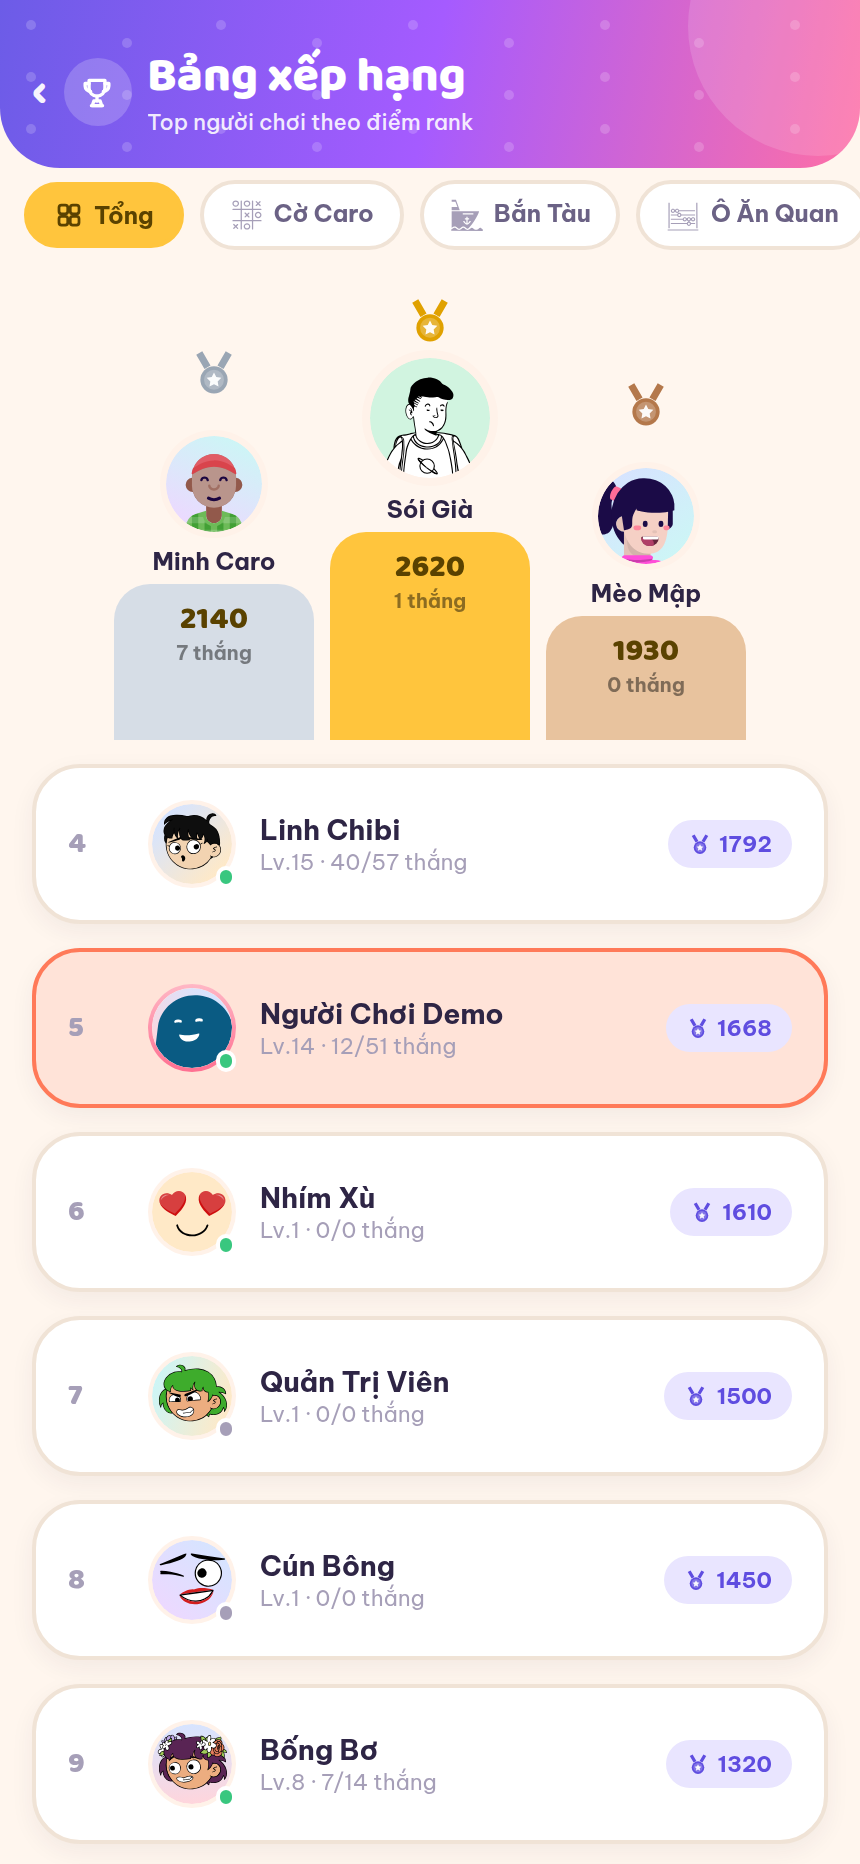
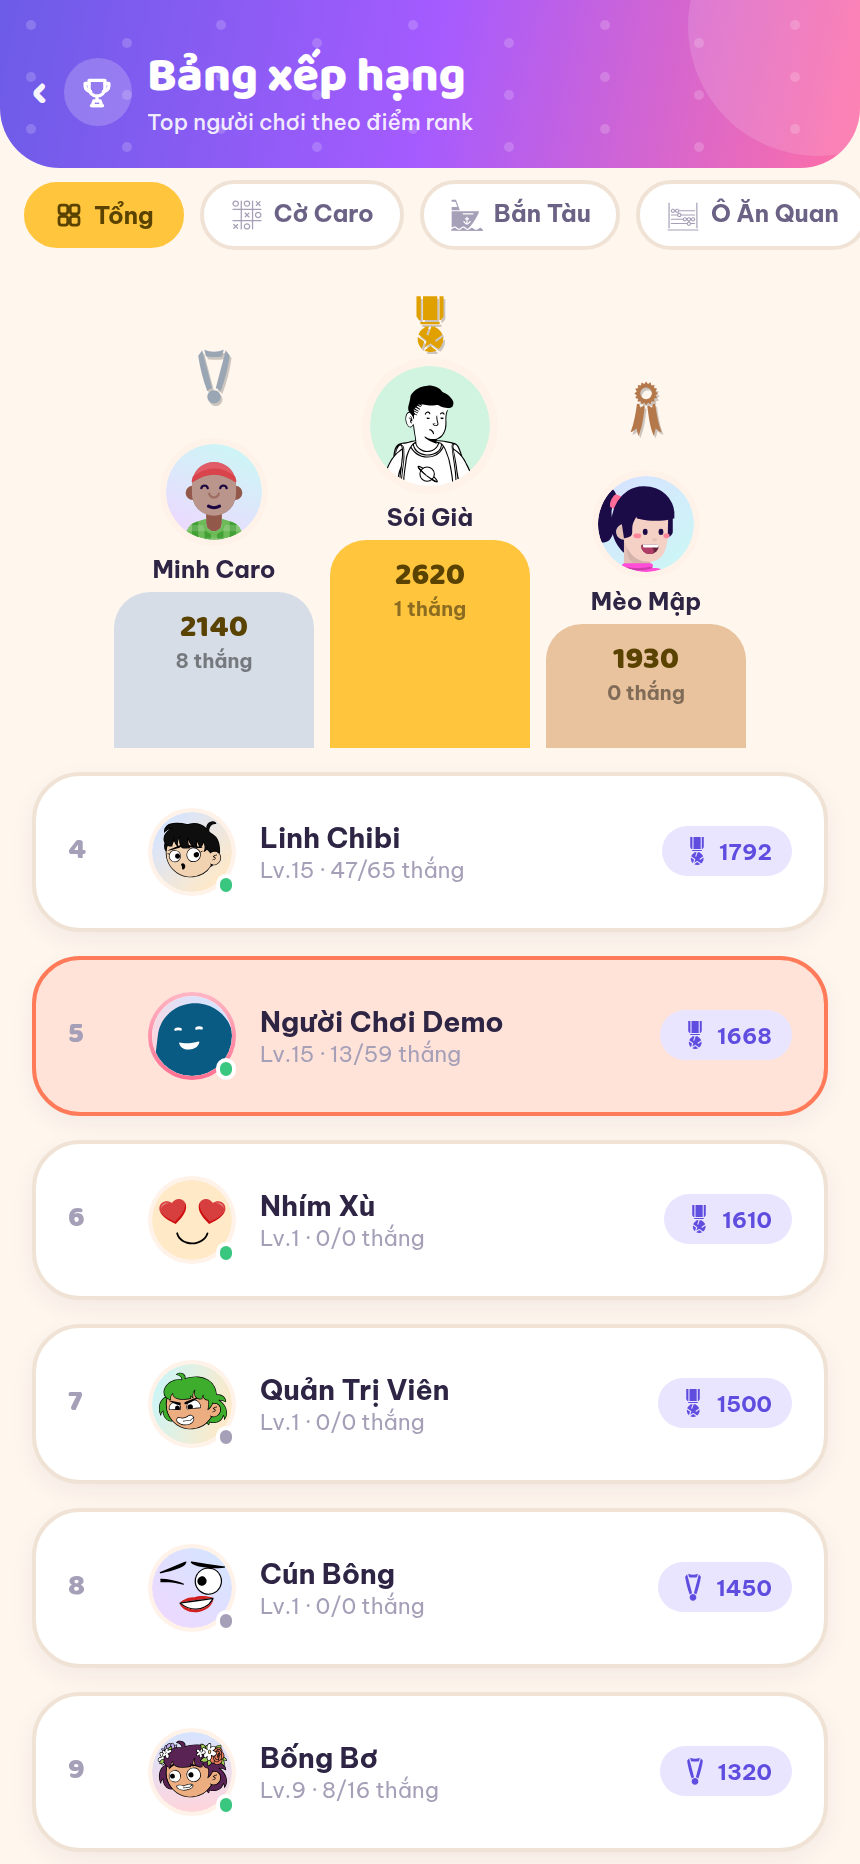
Cửa hàng, bảng xếp hạng và hạng đấu dùng asset; sửa lỗi xén viền hàng lọc
- Preview cosmetic dựng theo loại: khung có avatar mẫu bên trong, bàn cờ là lưới
  3x3, nền/bong bóng/emote/hiệu ứng dùng asset trên nền chuyển màu — trước đó
  chỉ là ô màu trơn nên không ra dáng vật phẩm.
- Chip nhận prop art; hạng đấu có huy chương đồng/bạc/vàng, đá quý, vương miện
  theo bậc (src/lib/rank.ts) thay vì cùng một icon nét.
- Bục xếp hạng và bảng kết quả trận dùng huy chương theo thứ hạng.
- Sửa lỗi hàng lọc cửa hàng bị xén mất viền trên dưới: ScrollView ngang của
  react-native-web cắt phần tràn dọc, nay bọc trong View có chiều cao cố định.

diff --git a/apps/mobile/app/shop.tsx b/apps/mobile/app/shop.tsx
@@ -6,6 +6,7 @@ import { useSafeAreaInsets } from 'react-native-safe-area-context';
 import { Btn, Card, Chip, CoinPill, Empty, SectionTitle, Txt } from '../src/components/ui';
 import { HeaderTabs, ScreenHeader } from '../src/components/ScreenHeader';
 import { Icon, IconName } from '../src/components/Icon';
+import { Art, ArtName } from '../src/components/Art';
 import { C, R, RARITY, S, softShadow } from '../src/theme';
 import { api, friendlyError } from '../src/lib/api';
 import { useStore } from '../src/state/store';
@@ -97,7 +98,15 @@ export default function ShopScreen() {
       </ScreenHeader>
 
       {mode === 'shop' ? (
-        <ScrollView horizontal showsHorizontalScrollIndicator={false} style={{ flexGrow: 0, height: 46, marginTop: S.md }} contentContainerStyle={{ paddingHorizontal: S.lg, gap: 8, alignItems: 'center' }}>
+        // Bọc trong View có chiều cao: ScrollView ngang của react-native-web
+        // cắt phần tràn theo trục dọc, chip cao hơn dòng chữ sẽ bị xén mất viền.
+        <View style={{ height: 54, marginTop: S.md }}>
+        <ScrollView
+          horizontal
+          showsHorizontalScrollIndicator={false}
+          style={{ flex: 1 }}
+          contentContainerStyle={{ paddingHorizontal: S.lg, gap: 8, alignItems: 'center' }}
+        >
           {TYPES.map((t) => (
             <Pressable
               key={t.id}
@@ -120,6 +129,7 @@ export default function ShopScreen() {
             </Pressable>
           ))}
         </ScrollView>
+        </View>
       ) : null}
 
       <ScrollView
@@ -201,42 +211,76 @@ export default function ShopScreen() {
   );
 }
 
-/** Biểu tượng đại diện khi vật phẩm chỉ là một dải màu. */
-/** Asset đại diện khi vật phẩm chỉ là một dải màu. Nền thì để nguyên gradient. */
-function previewArt(item: any): IconName | null {
-  if (item.type === 'victory') return 'sparkle';
-  if (item.type === 'entry') return 'star';
-  if (item.type === 'boardtheme') return 'dice';
-  if (item.type === 'bubble') return 'chat';
-  return null;
-}
+/** Mỗi loại cosmetic có một cách dựng preview riêng, thay vì ô màu trơn. */
+const TYPE_ART: Record<string, ArtName> = {
+  victory: 'star',
+  entry: 'ui-quick',
+  boardtheme: 'die-5',
+  bubble: 'ui-chat',
+  emote: 'happy',
+  background: 'moon',
+};
 
 function ItemPreview({ item, size = 62 }: { item: any; size?: number }) {
   const p = item.payload ?? {};
+  const radius = item.type === 'frame' ? size / 2 : R.md;
+  const colors = [p.from ?? p.bg ?? C.primarySoft, p.to ?? p.bg ?? C.primary] as [string, string];
+
   if (item.type === 'title') {
     return (
-      <View style={{ width: size, height: size, borderRadius: R.md, backgroundColor: C.surfaceAlt, alignItems: 'center', justifyContent: 'center', padding: 4 }}>
+      <View
+        style={[
+          { width: size, height: size, borderRadius: R.md, backgroundColor: C.surfaceAlt, alignItems: 'center', justifyContent: 'center', padding: 4, borderWidth: 2, borderColor: C.line },
+          softShadow(0.08, 8, 3),
+        ]}
+      >
         <Txt size={10} weight="bold" color={p.color ?? C.ink} center numberOfLines={2}>
           {p.text ?? item.name}
         </Txt>
       </View>
     );
   }
-  if (item.type === 'emote') {
+
+  if (item.type === 'frame') {
+    // Khung avatar: cho luôn một avatar mẫu vào giữa để thấy khung ôm cái gì.
     return (
-      <View style={{ width: size, height: size, borderRadius: R.md, backgroundColor: C.surfaceAlt, alignItems: 'center', justifyContent: 'center' }}>
-        <Icon name="sparkle" size={size * 0.46} color="#8A5E00" strokeWidth={1.9} />
-      </View>
+      <LinearGradient colors={colors} style={[{ width: size, height: size, borderRadius: radius, alignItems: 'center', justifyContent: 'center' }, softShadow(0.12, 10, 4)]}>
+        <View style={{ width: size * 0.74, height: size * 0.74, borderRadius: size, backgroundColor: C.surface, alignItems: 'center', justifyContent: 'center' }}>
+          <Art name="ui-profile" size={size * 0.42} color={C.inkFaint} />
+        </View>
+      </LinearGradient>
     );
   }
-  const colors = [p.from ?? p.bg ?? C.primarySoft, p.to ?? p.bg ?? C.primary];
+
+  if (item.type === 'boardtheme') {
+    // Bàn cờ: dựng lưới 3x3 nhỏ cho ra dáng mặt bàn.
+    const cell = size * 0.2;
+    return (
+      <LinearGradient colors={colors} style={[{ width: size, height: size, borderRadius: radius, alignItems: 'center', justifyContent: 'center', gap: 2 }, softShadow(0.12, 10, 4)]}>
+        {[0, 1, 2].map((r) => (
+          <View key={r} style={{ flexDirection: 'row', gap: 2 }}>
+            {[0, 1, 2].map((c) => (
+              <View
+                key={c}
+                style={{
+                  width: cell,
+                  height: cell,
+                  borderRadius: 3,
+                  backgroundColor: (r + c) % 2 ? 'rgba(255,255,255,0.55)' : 'rgba(255,255,255,0.22)',
+                }}
+              />
+            ))}
+          </View>
+        ))}
+      </LinearGradient>
+    );
+  }
+
+  const art = TYPE_ART[item.type];
   return (
-    <LinearGradient colors={colors as [string, string]} style={{ width: size, height: size, borderRadius: item.type === 'frame' ? size / 2 : R.md, alignItems: 'center', justifyContent: 'center' }}>
-      {item.type === 'frame' ? (
-        <View style={{ width: size * 0.62, height: size * 0.62, borderRadius: size, backgroundColor: C.surface }} />
-      ) : previewArt(item) ? (
-        <Icon name={previewArt(item)!} size={size * 0.46} color="rgba(255,255,255,0.92)" strokeWidth={1.9} />
-      ) : null}
+    <LinearGradient colors={colors} style={[{ width: size, height: size, borderRadius: radius, alignItems: 'center', justifyContent: 'center', overflow: 'hidden' }, softShadow(0.12, 10, 4)]}>
+      <View pointerEvents="none" style={{ position: 'absolute', top: -size * 0.3, left: -size * 0.2, width: size, height: size * 0.7, borderRadius: size, backgroundColor: 'rgba(255,255,255,0.18)' }} />
+      {art ? <Art name={art} size={size * 0.5} color="rgba(255,255,255,0.95)" glyph shadow /> : null}
     </LinearGradient>
   );
 }

diff --git a/apps/mobile/src/art/gameArt.ts b/apps/mobile/src/art/gameArt.ts
@@ -407,6 +407,27 @@ export const GAME_ART = {
       { tag: "path", props: { "fill": "@", "d": "M256 16c-48 0-80 32-80 64 0 48 16 80 32 96v16h96v-16c16-16 32-48 32-96 0-32-32-64-80-64zm-63.6 65.33L256 102.5l63.6-21.17-39.2 97.97-16.8-6.6 24.8-62-32.4 10.8-32.4-10.8 24.8 62-16.8 6.6-39.2-97.97zm-83.3 79.07c-23.4 3-44.6 30.5-44.6 65.9 0 19.6 6.8 36.9 16.7 48.9l11.9 14.2-18.3 3.4c-12.9 2.5-22.3 9.3-30.4 20.4-8.1 11.1-14.3 26.5-18.6 44.4C18 389.8 16.2 429.2 16 464h42.8l2.24 30H169.6l2-30h40.8c0-35.2-.4-75.1-7.5-107.7-4-17.9-9.9-33.3-18.1-44.3-8.2-11-18.1-17.8-32.6-20l-18.5-2.9 11.7-14.7c9.5-11.9 15.9-29 15.9-48.1 0-37.8-23.6-65.8-49.4-65.8l-4.8-.1zm283.6 0c-23.4 3-44.6 30.5-44.6 65.9 0 19.6 6.8 36.9 16.7 48.9l11.9 14.2-18.3 3.4c-12.9 2.5-22.3 9.3-30.4 20.4-8.1 11.1-14.3 26.5-18.6 44.4-7.8 32.2-9.6 71.6-9.8 106.4h42.8l2.2 30h108.6l2-30H496c0-35.2-.4-75.1-7.5-107.7-4-17.9-9.9-33.3-18.1-44.3-8.2-11-18.1-17.8-32.6-20l-18.5-2.9 11.7-14.7c9.5-11.9 15.9-29 15.9-48.1 0-37.8-23.6-65.8-49.4-65.8l-4.8-.1zM208 209v18h96v-18h-96zm16 34v18h64v-18h-64z" } },
     ],
   },
+  "medal-1": {
+    viewBox: "0 0 512 512",
+    badge: false,
+    nodes: [
+      { tag: "path", props: { "fill": "@", "d": "M140.5 19.156V192.28l21.813 28.532h15.53V19.156H140.5zm56.03 0v201.656h122.064V19.156H196.53zm140.75 0v201.656h12.345l22.094-28.53V19.155h-34.44zM173.94 239.5v18.125H338.03V239.5H173.94zm30.78 36.813l8.032 10.53c-25.262 12.014-45.128 33.46-55.094 59.813l65.03 47.47 5.47 3.968-2.094 6.437-17.312 53.69 45.656-33.064 5.5-3.97 5.47 3.97 62.468 45.22c24.872-19.957 40.78-50.6 40.78-85.063 0-6.494-.573-12.854-1.655-19.032l-58.845 42.94-11-15.095L361.688 347c-10.683-28.55-32.932-51.392-61.125-62.78l6.125-7.908h-38.813l-25.5 78-17.75-5.812 23.594-72.188h-43.5zm-52.374 89.625c-1.123 6.286-1.72 12.76-1.72 19.375 0 32.163 13.84 61.008 35.907 80.937l19.69-61.03-53.876-39.283zm107.562 78.343l-51.53 37.314c15.266 8.124 32.707 12.72 51.25 12.72 18.673-.002 36.218-4.676 51.562-12.908l-51.282-37.125z" } },
+    ],
+  },
+  "medal-2": {
+    viewBox: "0 0 512 512",
+    badge: false,
+    nodes: [
+      { tag: "path", props: { "fill": "@", "d": "M338.8 31.81c-5 19.51-9.9 38.69-14.9 57.64-45.3 7.27-90.5 7.28-135.8 0-5-18.95-9.9-38.13-14.9-57.64 54.9 22.58 110.7 22.58 165.6 0zm17.3 4.59l34.4 45.95c-14 96.25-40 204.15-77.5 302.95-10.7-12.4-25.2-21.3-41.8-24.7 28.3-111.3 56.6-212.3 84.9-324.2zm-200.2 0c28.3 111.9 56.6 212.9 84.9 324.2-16.6 3.4-31.1 12.3-41.8 24.7-37.5-98.8-63.5-206.7-77.5-302.95zM256 377c31.6 0 57 25.4 57 57s-25.4 57-57 57-57-25.4-57-57 25.4-57 57-57z" } },
+    ],
+  },
+  "medal-3": {
+    viewBox: "0 0 512 512",
+    badge: false,
+    nodes: [
+      { tag: "path", props: { "fill": "@", "d": "M256.883 29.7L241.11 51.554l-23-14.06-6.202 26.224-26.63-4.193 4.308 26.604-26.21 6.317 14.165 22.93-21.794 15.86L177.61 147l-14.065 22.992 26.234 6.2-4.194 26.624 26.613-4.308 6.316 26.2 22.937-14.16 15.865 21.788 15.772-21.856 23 14.06 4.283-18.11 1.92-8.116 26.633 4.194-4.31-26.606 26.21-6.314-14.166-22.928 21.797-15.86-21.863-15.767 14.064-22.992-26.234-6.2 4.19-26.624-26.61 4.307-6.318-26.2-22.936 14.16-15.867-21.788zm-.252 51.68a49.657 49.64 0 0 1 49.657 49.64 49.657 49.64 0 0 1-49.656 49.638 49.657 49.64 0 0 1-49.655-49.638 49.657 49.64 0 0 1 49.656-49.64zm59.345 137.308l-8.082 34.164-29.96-18.315-9.747 13.504c11.734 82.04 18.1 163.835 54.654 247l16.553-66.185c10.51 13.815 27.52 26.056 49.656 33.092-31.075-77.557-42.77-158.987-54.714-240.37l-18.36-2.89zm-117.37.253l-19.76 3.2c-11.916 81.194-23.63 162.428-54.632 239.807 22.136-7.036 39.147-19.277 49.658-33.092l16.552 66.186c36.794-83.71 43.005-166.034 54.89-248.614l-8.595-11.8-29.88 18.442-8.232-34.127z" } },
+    ],
+  },
   "win": {
     viewBox: "0 0 512 512",
     badge: false,

diff --git a/apps/mobile/app/(tabs)/index.tsx b/apps/mobile/app/(tabs)/index.tsx
@@ -7,12 +7,13 @@ import { Avatar, Bar, Card, Empty, Txt } from '../../src/components/ui';
 import { HotGameCard, GameMeta } from '../../src/components/GameCard';
 import { Icon, IconName } from '../../src/components/Icon';
 import { ArtToken } from '../../src/components/ArtToken';
-import { ArtName } from '../../src/components/Art';
+import { Art, ArtName } from '../../src/components/Art';
 import { BannerCarousel, BannerItem } from '../../src/components/Banner';
 import { Bubbles, DotPattern, Gloss } from '../../src/components/decor';
 import { ACTION_GRADIENT, C, HERO_GRADIENT, R, S, glowShadow, softShadow } from '../../src/theme';
 import { api } from '../../src/lib/api';
 import { useStore } from '../../src/state/store';
+import { rankArt } from '../../src/lib/rank';
 
 interface HomeData {
   friendsOnline: any[];
@@ -124,7 +125,7 @@ export default function HomeScreen() {
             </Txt>
             <View style={{ flexDirection: 'row', gap: 5, marginTop: 3 }}>
               <HeroChip label={`Lv.${profile?.level}`} />
-                <HeroChip label={`${profile?.rank} · ${profile?.rating}`} icon="medal" />
+              <HeroChip label={`${profile?.rank} · ${profile?.rating}`} art={rankArt(profile?.rank)} />
             </View>
           </View>
           <Pressable onPress={() => router.push('/notifications')}>
@@ -383,7 +384,7 @@ export default function HomeScreen() {
   );
 }
 
-function HeroChip({ label, icon }: { label: string; icon?: IconName }) {
+function HeroChip({ label, icon, art }: { label: string; icon?: IconName; art?: ArtName }) {
   return (
     <View
       style={{
@@ -396,7 +397,7 @@ function HeroChip({ label, icon }: { label: string; icon?: IconName }) {
         borderRadius: R.pill,
       }}
     >
-      {icon ? <Icon name={icon} size={12} color="#fff" strokeWidth={2.3} /> : null}
+      {art ? <Art name={art} size={14} color="#fff" /> : icon ? <Icon name={icon} size={12} color="#fff" strokeWidth={2.3} /> : null}
       <Txt size={11} weight="bold" color="#fff">
         {label}
       </Txt>

diff --git a/apps/mobile/app/leaderboard.tsx b/apps/mobile/app/leaderboard.tsx
@@ -10,6 +10,8 @@ import { GameIcon, GameIconName } from '../src/components/GameIcon';
 import { C, R, S } from '../src/theme';
 import { api } from '../src/lib/api';
 import { useStore } from '../src/state/store';
+import { Art } from '../src/components/Art';
+import { placeArt, rankArt } from '../src/lib/rank';
 
 export default function LeaderboardScreen() {
   const router = useRouter();
@@ -76,7 +78,7 @@ export default function LeaderboardScreen() {
               const heights = [104, 78, 62];
                         return (
                 <Pressable key={e.user.id} onPress={() => router.push(`/user/${e.user.id}`)} style={{ alignItems: 'center', gap: 4, width: 100 }}>
-                  <Icon name="medal" size={26} color={i === 0 ? '#E0A100' : i === 1 ? '#9AA6B4' : '#B4784B'} strokeWidth={2} />
+                  <Art name={placeArt(i + 1)} size={30} color={i === 0 ? '#E0A100' : i === 1 ? '#9AA6B4' : '#B4784B'} shadow />
                   <View style={{ height: 66, justifyContent: 'flex-end' }}>
                     <Avatar seed={e.user.avatarSeed} styleName={e.user.avatarStyle} frameId={e.user.frameId} size={i === 0 ? 60 : 48} />
                   </View>
@@ -122,7 +124,7 @@ export default function LeaderboardScreen() {
                   Lv.{e.user.level} · {e.wins}/{e.matches} thắng
                 </Txt>
               </View>
-              <Chip label={String(e.user.rating)} icon="medal" color={C.secondaryDark} soft={C.secondarySoft} size={11} />
+              <Chip label={String(e.user.rating)} art={rankArt(e.user.rank)} color={C.secondaryDark} soft={C.secondarySoft} size={11} />
             </Card>
           </Pressable>
         ))}

diff --git a/apps/mobile/app/match/[id].tsx b/apps/mobile/app/match/[id].tsx
@@ -9,6 +9,8 @@ import { Icon, IconName } from '../../src/components/Icon';
 import { GameIcon, GameIconName } from '../../src/components/GameIcon';
 import { DotPattern } from '../../src/components/decor';
 import { StickerArt } from '../../src/components/Piece';
+import { Art } from '../../src/components/Art';
+import { placeArt } from '../../src/lib/rank';
 
 import { C, GAME_GRADIENT, R, S, softShadow } from '../../src/theme';
 import { BOARDS } from '../../src/games';
@@ -267,7 +269,7 @@ export default function MatchScreen() {
                         return (
                           <View key={r.userId} style={{ flexDirection: 'row', alignItems: 'center', gap: 8, backgroundColor: C.surfaceAlt, borderRadius: R.md, padding: S.sm }}>
                             {r.place <= 3 ? (
-                              <Icon name="medal" size={19} color={r.place === 1 ? C.sun : r.place === 2 ? '#A9B4C2' : '#C4854B'} strokeWidth={2} />
+                              <Art name={placeArt(r.place)} size={22} color={r.place === 1 ? C.sun : r.place === 2 ? '#A9B4C2' : '#C4854B'} />
                             ) : (
                               <Txt size={13} weight="display" color={C.inkFaint} style={{ width: 20 }} center>
                                 {r.place}

diff --git a/apps/mobile/src/components/ui.tsx b/apps/mobile/src/components/ui.tsx
@@ -14,6 +14,7 @@ import { LinearGradient } from 'expo-linear-gradient';
 import { C, F, R, S, softShadow, toyShadow } from '../theme';
 import { avatarUrl } from '../lib/api';
 import { Icon, IconName } from './Icon';
+import { Art, ArtName } from './Art';
 
 /* --------------------------------- text --------------------------------- */
 
@@ -238,12 +239,15 @@ export function Chip({
   color = C.secondary,
   soft = C.secondarySoft,
   icon,
+  art,
   size = 12,
 }: {
   label: string;
   color?: string;
   soft?: string;
   icon?: IconName;
+  /** Asset thay cho icon nét — dùng cho hạng, huy chương, vật phẩm. */
+  art?: ArtName;
   size?: number;
 }) {
   return (
@@ -258,7 +262,7 @@ export function Chip({
         borderRadius: R.pill,
       }}
     >
-      {icon ? <Icon name={icon} size={size + 1} color={color} strokeWidth={2.4} /> : null}
+      {art ? <Art name={art} size={size + 4} color={color} /> : icon ? <Icon name={icon} size={size + 1} color={color} strokeWidth={2.4} /> : null}
       <Txt size={size} weight="bold" color={color}>
         {label}
       </Txt>

diff --git a/apps/mobile/app/(tabs)/profile.tsx b/apps/mobile/app/(tabs)/profile.tsx
@@ -10,6 +10,7 @@ import { Bubbles, DotPattern } from '../../src/components/decor';
 import { C, HERO_GRADIENT, R, S, softShadow } from '../../src/theme';
 import { api } from '../../src/lib/api';
 import { useStore } from '../../src/state/store';
+import { rankArt } from '../../src/lib/rank';
 
 const GAME_NAMES: Record<string, string> = {
   caro: 'Cờ Caro',
@@ -89,7 +90,7 @@ export default function ProfileScreen() {
         </Txt>
         <View style={{ flexDirection: 'row', gap: 6, marginTop: 4 }}>
           <Chip label={`Lv.${profile.level}`} color="#fff" soft="rgba(255,255,255,0.24)" />
-          <Chip label={`${profile.rank} · ${profile.rating}`} icon="medal" color="#fff" soft="rgba(255,255,255,0.24)" />
+          <Chip label={`${profile.rank} · ${profile.rating}`} art={rankArt(profile.rank)} color="#fff" soft="rgba(255,255,255,0.24)" />
           {profile.isAdmin ? <Chip label="Admin" icon="shield" color="#fff" soft="rgba(255,255,255,0.24)" /> : null}
         </View>
         <View style={{ width: '80%', gap: 4, marginTop: 8 }}>

diff --git a/apps/mobile/app/(tabs)/social.tsx b/apps/mobile/app/(tabs)/social.tsx
@@ -8,6 +8,7 @@ import { ScreenHeader } from '../../src/components/ScreenHeader';
 import { C, R, S } from '../../src/theme';
 import { api, friendlyError } from '../../src/lib/api';
 import { useStore } from '../../src/state/store';
+import { rankArt } from '../../src/lib/rank';
 
 type Tab = 'friends' | 'requests' | 'chats' | 'find';
 
@@ -133,7 +134,7 @@ export default function SocialScreen() {
                   </Txt>
                   <View style={{ flexDirection: 'row', gap: 6, marginTop: 3 }}>
                     <Chip label={`Lv.${f.user.level}`} color="#9A6B00" soft={C.sunSoft} size={10} />
-                    <Chip label={f.user.rank} icon="medal" color={C.secondaryDark} soft={C.secondarySoft} size={10} />
+                    <Chip label={f.user.rank} art={rankArt(f.user.rank)} color={C.secondaryDark} soft={C.secondarySoft} size={10} />
                   </View>
                 </View>
                 <Btn label="Nhắn" size="sm" tone="ghost" icon="chat" onPress={() => router.push(`/chat/${f.user.id}`)} />

diff --git a/apps/mobile/app/user/[id].tsx b/apps/mobile/app/user/[id].tsx
@@ -9,6 +9,7 @@ import { C, R, S } from '../../src/theme';
 import { api, friendlyError } from '../../src/lib/api';
 import { emitAck } from '../../src/lib/socket';
 import { useStore } from '../../src/state/store';
+import { rankArt } from '../../src/lib/rank';
 
 export default function UserProfile() {
   const { id } = useLocalSearchParams<{ id: string }>();
@@ -57,7 +58,7 @@ export default function UserProfile() {
         </Txt>
         <View style={{ flexDirection: 'row', gap: 6 }}>
           <Chip label={`Lv.${p.level}`} color="#9A6B00" soft={C.sunSoft} />
-          <Chip label={`${p.rank} · ${p.rating}`} icon="medal" color={C.secondaryDark} soft={C.secondarySoft} />
+          <Chip label={`${p.rank} · ${p.rating}`} art={rankArt(p.rank)} color={C.secondaryDark} soft={C.secondarySoft} />
         </View>
         {p.bio ? (
           <Txt size={12} color={C.inkSoft} center style={{ maxWidth: 280 }}>

diff --git a/apps/mobile/app/game/[id].tsx b/apps/mobile/app/game/[id].tsx
@@ -12,6 +12,7 @@ import { C, GAME_GRADIENT, R, S } from '../../src/theme';
 import { api, friendlyError } from '../../src/lib/api';
 import { emitAck } from '../../src/lib/socket';
 import { useStore } from '../../src/state/store';
+import { rankArt } from '../../src/lib/rank';
 
 export default function GameDetail() {
   const { id } = useLocalSearchParams<{ id: string }>();
@@ -161,7 +162,7 @@ export default function GameDetail() {
                 <Txt size={13} weight="bold" style={{ flex: 1 }}>
                   {e.user.displayName}
                 </Txt>
-                <Chip label={String(e.user.rating)} icon="medal" color={C.secondaryDark} soft={C.secondarySoft} size={11} />
+                <Chip label={String(e.user.rating)} art={rankArt(e.user.rank)} color={C.secondaryDark} soft={C.secondarySoft} size={11} />
               </View>
             ))
           ) : (

diff --git a/apps/mobile/src/lib/rank.ts b/apps/mobile/src/lib/rank.ts
@@ -1,0 +1,20 @@
+import { ArtName } from '../components/Art';
+
+/** Mỗi bậc hạng một asset riêng: huy chương đồng/bạc/vàng, đá quý, vương miện. */
+const RANK_ART: Record<string, ArtName> = {
+  Bronze: 'medal-3',
+  Silver: 'medal-2',
+  Gold: 'medal-1',
+  Platinum: 'gem',
+  Diamond: 'gem',
+  Master: 'crown',
+};
+
+export function rankArt(rank?: string): ArtName {
+  return RANK_ART[rank ?? ''] ?? 'medal-3';
+}
+
+/** Huy chương theo thứ hạng 1-2-3. */
+export function placeArt(place: number): ArtName {
+  return place === 1 ? 'medal-1' : place === 2 ? 'medal-2' : 'medal-3';
+}

diff --git a/apps/mobile/assets/game-icons/CREDITS.md b/apps/mobile/assets/game-icons/CREDITS.md
@@ -61,6 +61,9 @@ chỉ bỏ nền đen và tô màu theo ngữ cảnh.
 | `ui-profile` | person | delapouite |
 | `ui-calendar` | calendar | delapouite |
 | `ui-friends` | team-idea | delapouite |
+| `medal-1` | medal | lorc |
+| `medal-2` | sport-medal | delapouite |
+| `medal-3` | ribbon-medal | delapouite |
 | `win` | trophy | lorc |
 | `draw` | laurels | lorc |
 | `lose` | sad | badges |
